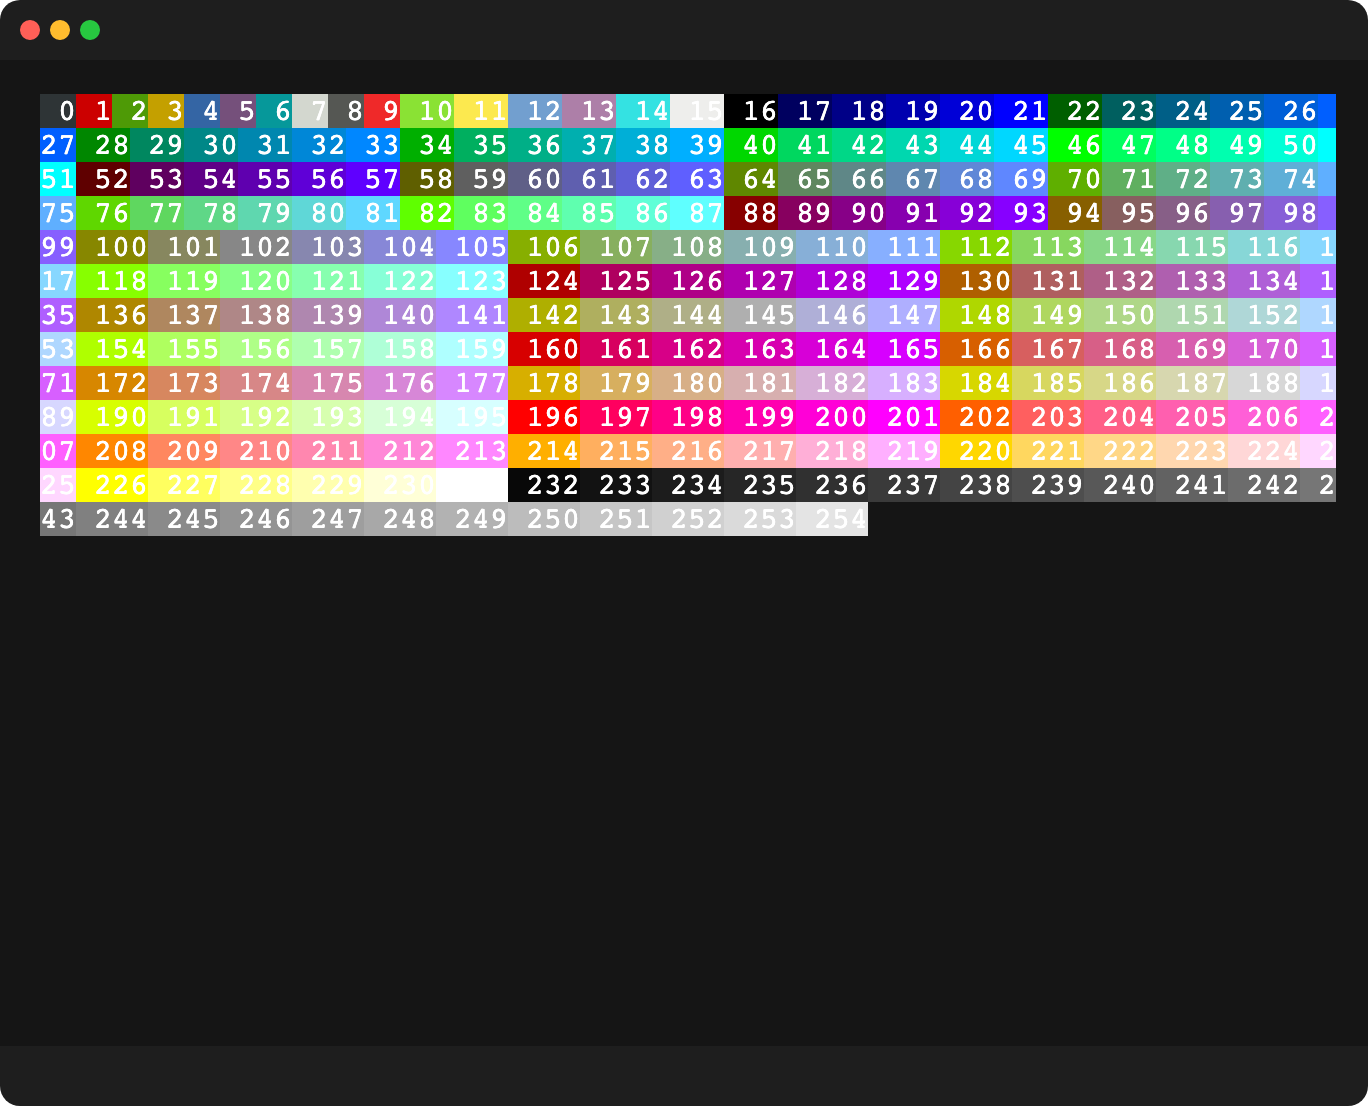
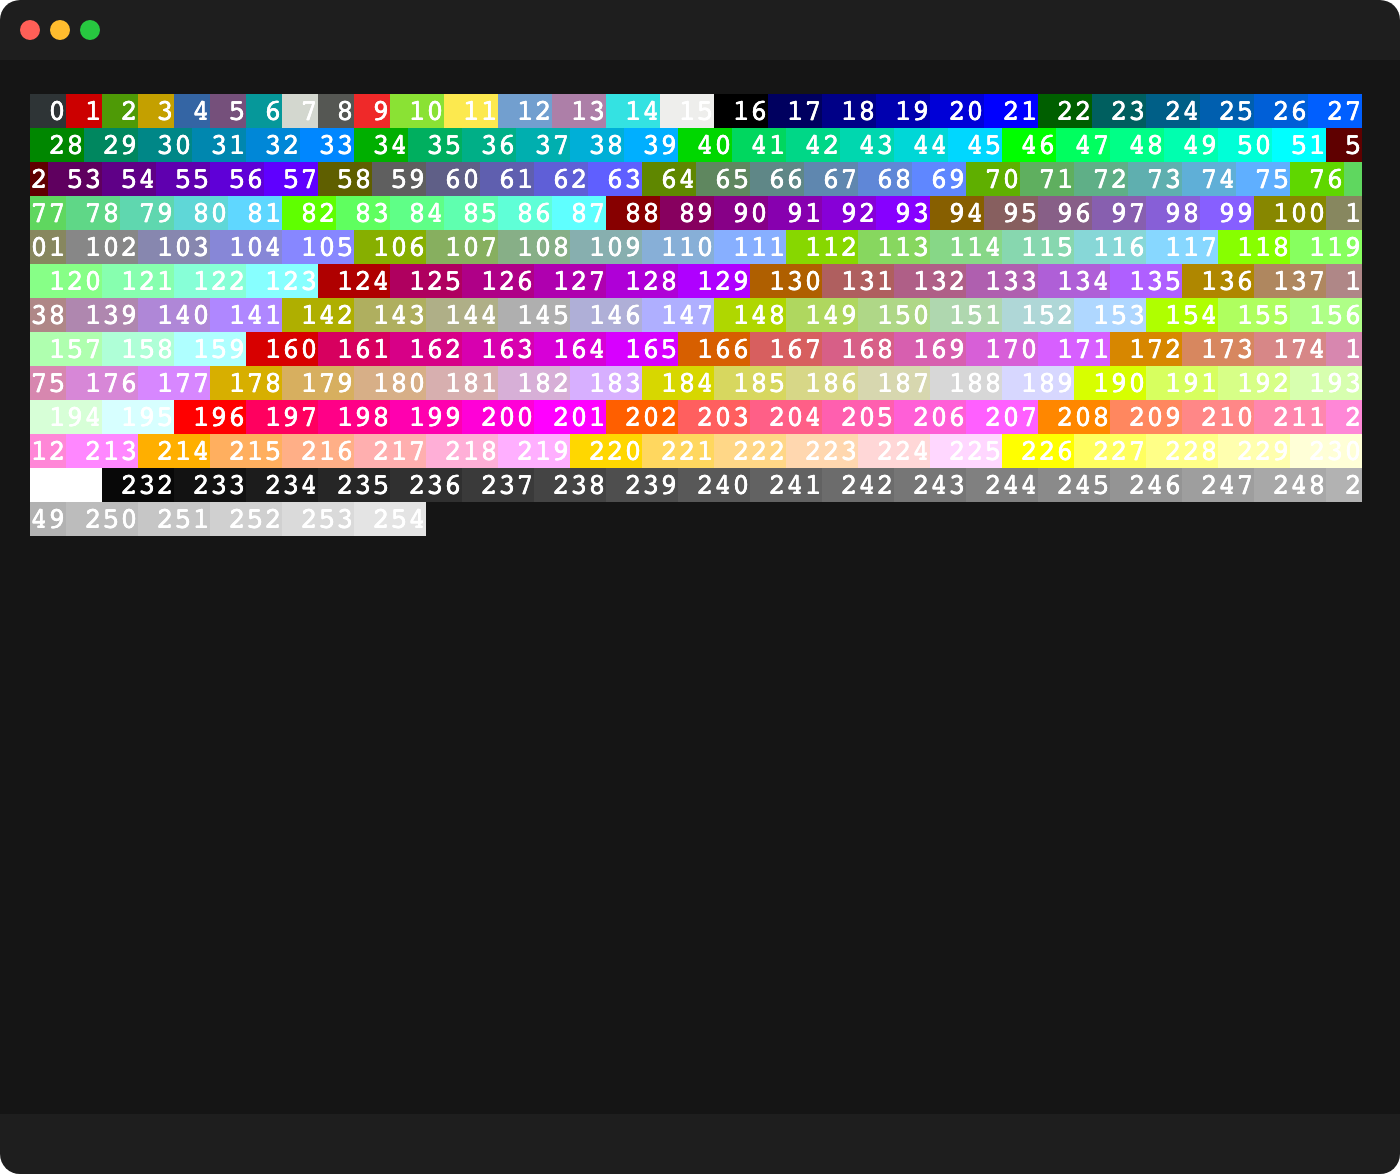
chore: reactor

diff --git a/shellfie.js b/shellfie.js
@@ -24,20 +24,21 @@ async function shellfie(data, config) {
         // inject js scripts
         const localModules = path.join(localPath, 'node_modules')
         await page.addScriptTag({ path: `${localModules}/xterm/lib/xterm.js` });
+        await page.addScriptTag({ path: `${localModules}/xterm-addon-fit/lib/xterm-addon-fit.js` });
 
         // set page html
         await page.setContent(html);
         await page.waitForSelector('.main');
         page.on('console', txt => console.log(txt.text()));
+        
         // setup terminal
-        await page.evaluate(({ options, lines, mode }) => {
-            const term = new Terminal({ ...options });
+        await page.evaluate(({ options, lines, mode, viewport }) => {
+            const fit = new FitAddon.FitAddon();
+            const term = new Terminal({ ...options, rendererType: 'dom' });
             term.open(document.getElementById('terminal'));
+            term.loadAddon(fit);
             term.writeln('');
-
-            const isArray = Array.isArray(lines);
-            const length = isArray ? lines.length : lines.split('\n').length;
-            const { rows, cols } = term;
+            
             if (mode === 'default') {
                 lines.forEach(line => {
                     line = line.replace(/\\x1.?\[/g, "\x1b[");
@@ -45,43 +46,23 @@ async function shellfie(data, config) {
                     term.writeln(line);
                 });
             } else {
-                lines = Array.isArray(lines) && lines.length > 1  ? lines : lines[0];
-                lines = lines.replace(/\n/g, '\r\n');
-                lines = chunkArray(lines.split(' '), cols * 4);
-                lines.forEach(line => {
-                    line = line.join(' ');
-                    line = line.replace(/\\x1.?\[/g, "\x1b[");
-                    line = `${line}\x1b[0m`;
-                    term.writeln(line);
-                });
-            }
-
-            if (isArray && length > 5) {
-                term.resize((Number(length) * 4), Number(length) + 3);
-            } else {
-                const rowsNumber = rows > length ? (length * 2) + 1 : rows;
-                term.resize(cols - 8, mode === "default" ? rowsNumber : rows + 5);
-            }
-
-
-            function chunkArray(myArray, size) {
-                var index = 0;
-                var arrayLength = myArray.length;
-                var tempArray = [];
-
-                for (index = 0; index < arrayLength; index += size) {
-                    myChunk = myArray.slice(index, index + size);
-                    tempArray.push(myChunk);
+                if (Array.isArray(lines)) {
+                    lines = lines.length > 1 ? lines : lines[0]
                 }
-
-                return tempArray;
+                lines = lines.replace(/\n/g, '\r\n');
+                term.write(lines);
             }
+            const height = viewport.height - 60;
+            document.querySelector('.xterm-screen').style.width = `${viewport.width}px`;
+            document.querySelector('.xterm-screen').style.height = `${height}px`;
+            fit.fit();
 
-        }, { lines, mode, options: style ? { theme, ...style } : { theme } });
-
+        }, { lines, mode, options: style ? { theme, ...style } : { theme }, viewport });
+        
         // inject styles
-        await page.addStyleTag({ path: `${localModules}/xterm/css/xterm.css` })
         await page.addStyleTag({ path: `${path.resolve(__dirname, 'template/template.css')}` });
+        await page.addStyleTag({ path: `${localModules}/xterm/css/xterm.css` })
+        await page.evaluateHandle('document.fonts.ready');
 
         // crop image   
         const clip = await (await page.$(".main")).boundingBox();
@@ -99,7 +80,7 @@ async function shellfie(data, config) {
         await page.screenshot({ path: `${pngsDir}/${name}.${ext}`, clip, omitBackground: true, type: ext });
         await browser.close();
     } catch (err) {
-        console.error(new Error(`shellfie error: ${err.message}`))
+        console.error(new Error(`\x1b[32mshellfie error: ${err.message}\x1b[0m`))
         console.error(err.stack)
         throw err;
     }

diff --git a/tests/shellfie.test.js b/tests/shellfie.test.js
@@ -29,8 +29,8 @@ describe('shellfie', () => {
         await shellfie(data, options);
     });
 
-    it('should support custom viewport', async () => {
-        await shellfie(["\x1b[32mGreen line", "\x1b[31;1mRED bold"], { name: 'small', viewport: { width: 200 } });
+    it.only('should support custom viewport', async () => {
+        await shellfie(["\x1b[32mGreen line", "\x1b[31;1mRED bold"], { name: 'small', viewport: { width: 200, height: 200 } });
     });
 
     it('should support long raw output', async () => {
@@ -113,7 +113,7 @@ describe('shellfie', () => {
         await shellfie(testResults, { name: 'monaco', style: { fontFamily: 'Monaco' } });
         await shellfie(testResults, { name: 'fira', style: { fontFamily: 'Fira Code', fontWeight: 'bold' } });
         await shellfie(testResults, { name: 'colored', style: { fontFamily: 'Fira Code' }, theme: { forground: 'gray' } });
-        await shellfie(testResults, { name: 'default' });
+        await shellfie(testResults, { name: 'default', viewport: {height: 500} });
     });
 
     it('should support chartscii fancy example', async () => {

diff --git a/template/template.css b/template/template.css
@@ -1,5 +1,10 @@
 @import url('https://fonts.googleapis.com/css2?family=Fira+Code&family=Roboto&display=swap');
 
+body {
+  margin: 0;
+  padding: 0;
+}
+
 .main {
   height: auto;
 }
@@ -39,6 +44,11 @@
   background: #27c840;
 }
 
-.xterm .xterm-screen canvas {
-  left: 20px;
+
+.xterm-rows {
+  padding: 0 15px !important;
+}
+
+.xterm-cursor {
+  display: none !important;
 }
